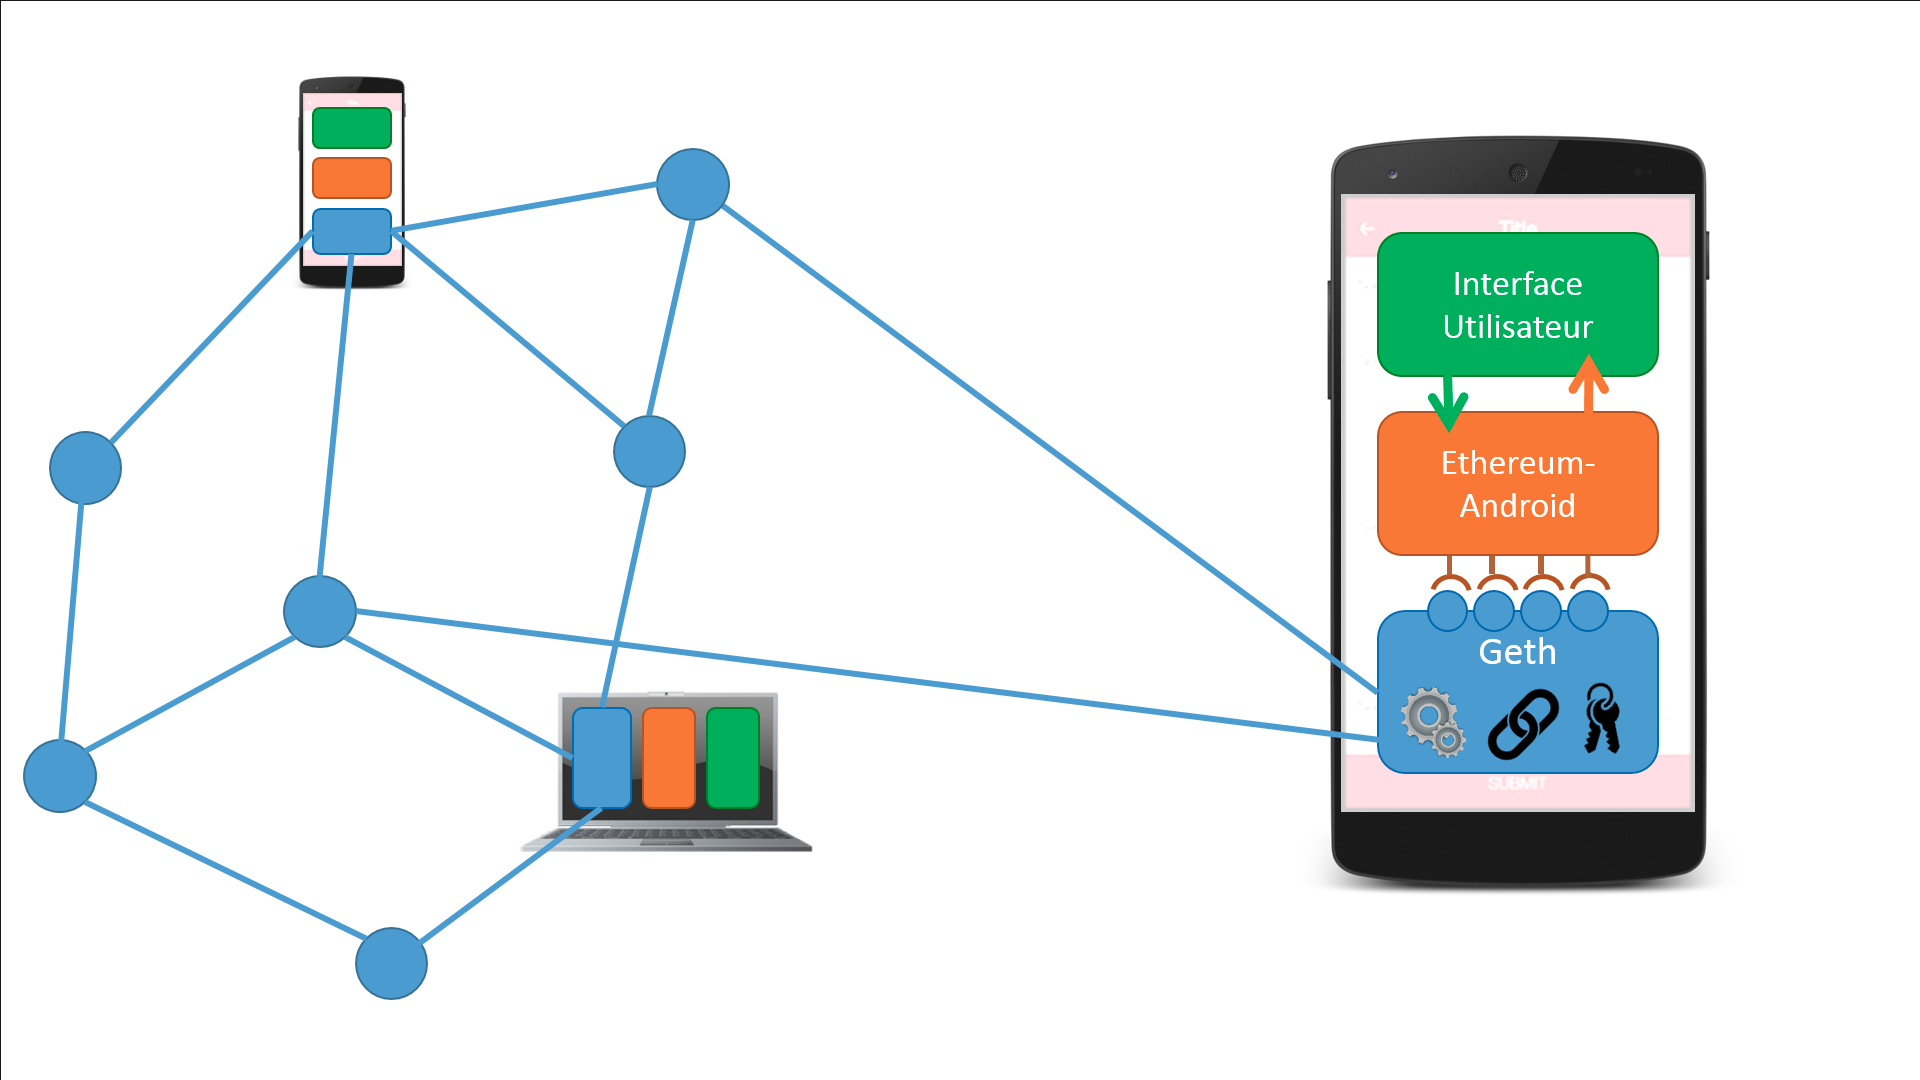
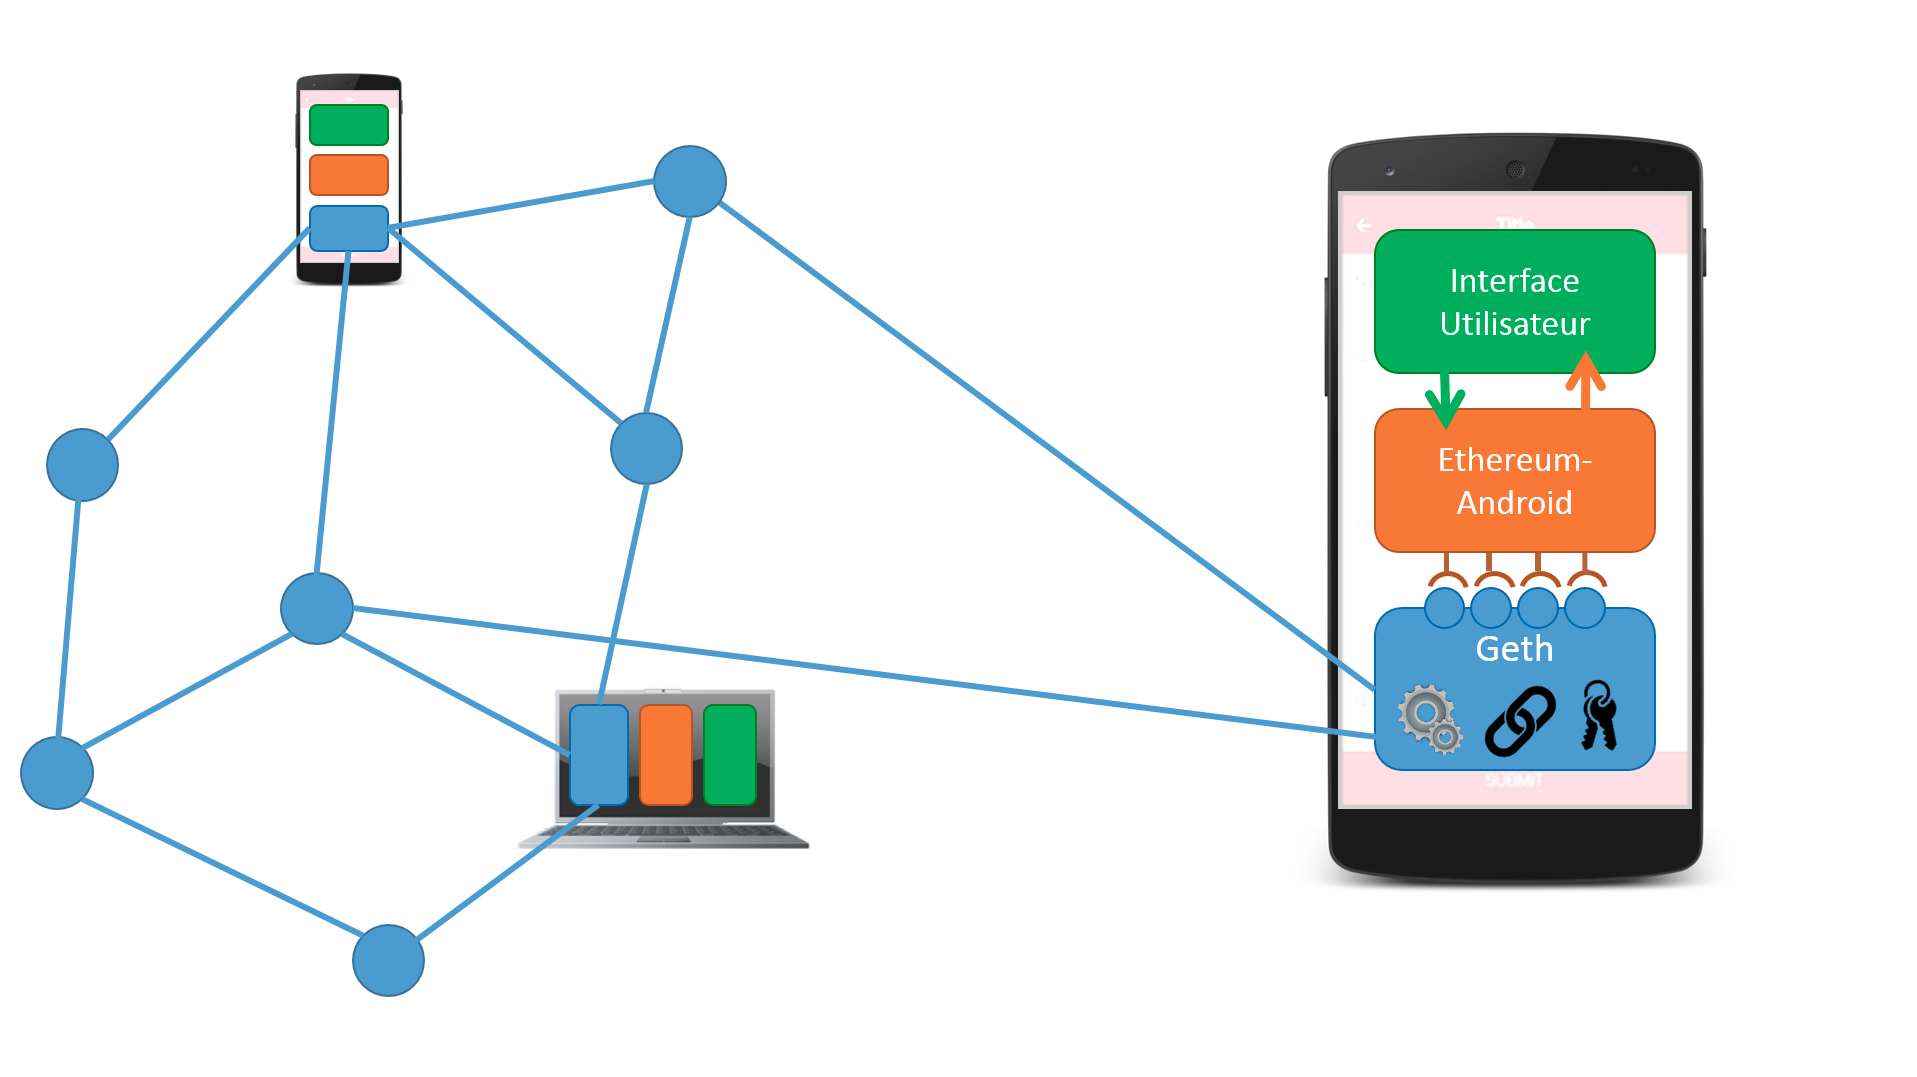
remove black stick on images + add use case image

diff --git a/prez/src/slides/slides.md b/prez/src/slides/slides.md
@@ -52,8 +52,10 @@ Consensus
 Mineurs
 
 ---
-class: center, middle
+
 # Usages ?
+
+.center[![:scale 98%](img/slide_use_case.png)]
 
 ---
 class: center, middle
